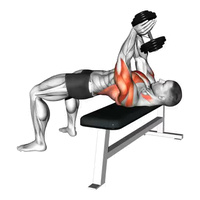
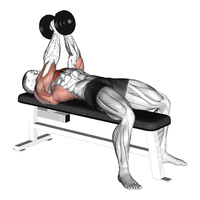
fix: Sposta il pullover con manubrio tra i dorsali, aggiorna foto, animazione e testi

diff --git a/src/components/benvenuto/Index.tsx b/src/components/benvenuto/Index.tsx
@@ -232,7 +232,7 @@ export function SchermataCatalogo() {
       <p className="text-[13px] font-extrabold">Catalogo esercizi</p>
       <div className="rounded-xl border border-bordo bg-fondo px-2 py-1.5 text-[10.5px] text-suggerito">Cerca un esercizio</div>
       <div className="flex gap-1 overflow-hidden text-[9px] font-semibold">
-        {['TUTTE 510', 'PETTO 59', 'DORSALI 47', 'GLUTEI 36'].map((voce) => (
+        {['TUTTE 510', 'PETTO 58', 'DORSALI 48', 'GLUTEI 36'].map((voce) => (
           <span
             key={voce}
             className={`shrink-0 rounded-full border px-2 py-1 ${voce.startsWith('PETTO') ? 'border-accento bg-accento text-su-accento' : 'border-bordo bg-carta'}`}
